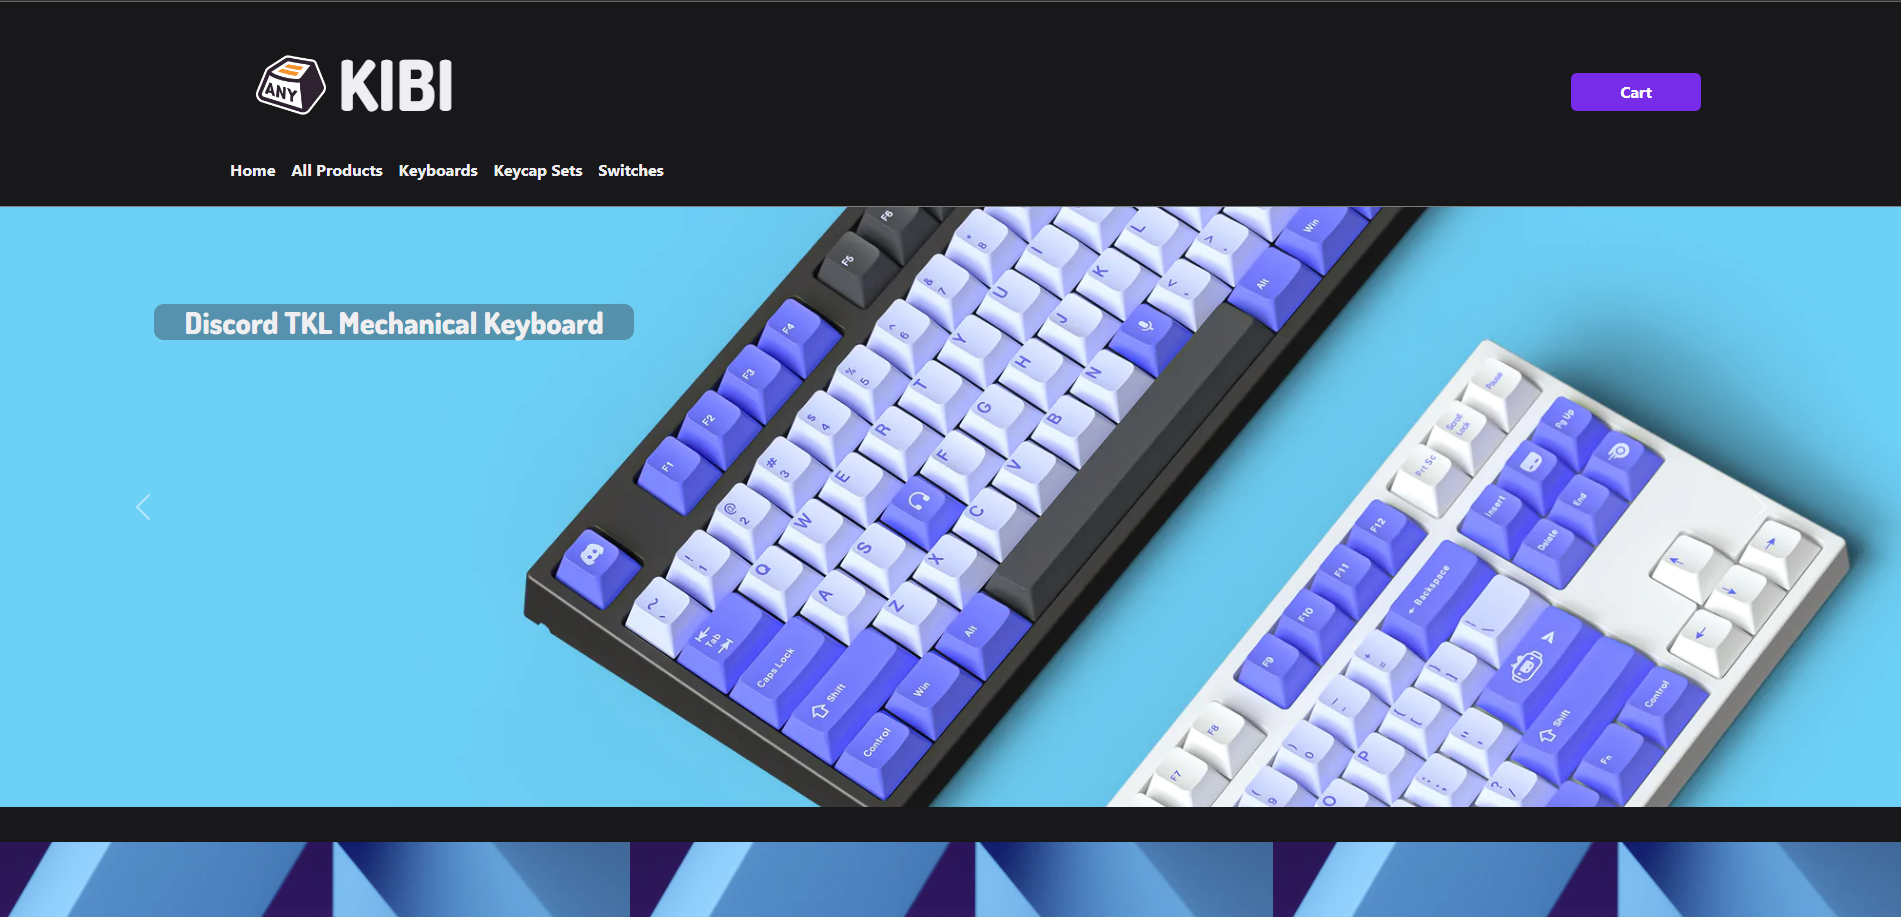
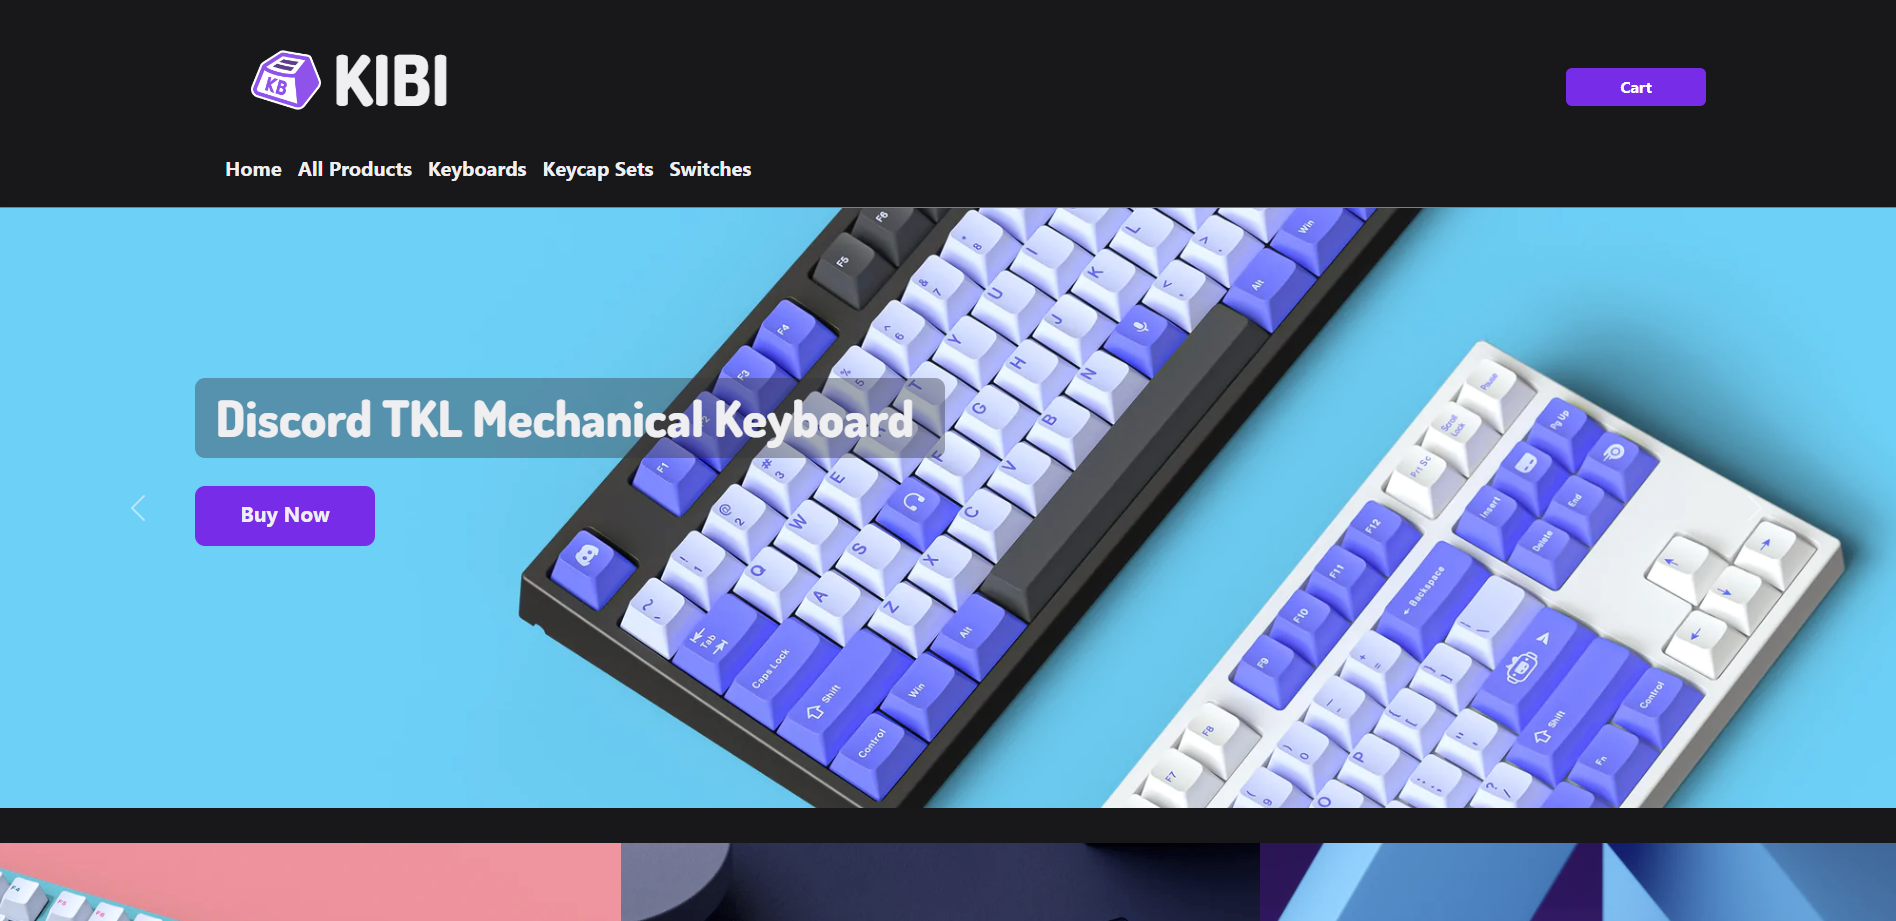
ReadMe Photos and Tweaks

diff --git a/README.md b/README.md
@@ -3,20 +3,20 @@
 
 ## Introduction:
 
-"KIBI" e-commerce store is a web application that features the 7 RESTful routes. The idea to build an awesome e-commerce store to offer various great quality keyboards was born based on common hobbies of team members.
+"KIBI" store is a full stack web application that features the 7 RESTful routes. The idea to build an awesome e-commerce store to offer various quality keyboards was born based on common hobbies of team members.
 
 
 ## Credits:
 
-This development was coded and created by Estrella Alvarez https://github.com/estrellaalvarez, Steven Calhoun https://github.com/StevieC7, Shorena K. Anzhilov https://github.com/ShorenaK .
+This application was developed by Estrella Alvarez https://github.com/estrellaalvarez, Steven Calhoun https://github.com/StevieC7, and Shorena K. Anzhilov https://github.com/ShorenaK .
 
 
 ## Features: 
 Display all products "Keyboards & Keycaps Set".
-View to display all Keyboard.
-View to display all Keycaps set.
+View to display all Keyboards.
+View to display all Keycap sets.
 View page to show each individual product.
-Edit a Keyboard & Keycaps listing.
+Edit a Keyboard & Keycap Set listings.
 Create a product listing.
 Delete a product listing.
 Ability to add items to a cart.
@@ -37,10 +37,11 @@ The application was built with Node.js, Mongoose, Express and EJS. The file stru
 
 
 ## Future Improvements:
- This application could be developed further with additions such as a shopping cart or functionality to accept payments securely. Another improvement would be to create a community of frequent customers who would log into the app. They could have increased functionality over non-logged in users. (For example, making listing an item a function that only logged-in users can do.) Users could then benefit from coupons, or other such perks.
+ This application may be developed further with additions such as functionality to accept payments securely. Another improvement would be to create a community of frequent customers who would log into the app. They could have increased functionality over non-logged in users. (For example, making listing an item a function that only logged-in users can do.) Users could then benefit from coupons, or other such perks.
 
  ## Home Page:
 ![](public/images/Home.png)
+![](public/images/Home-2.png)
 
 
 ## Link to hosted application:
